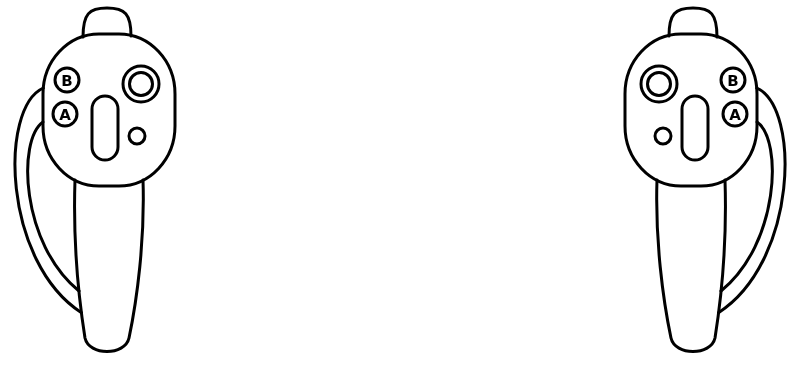
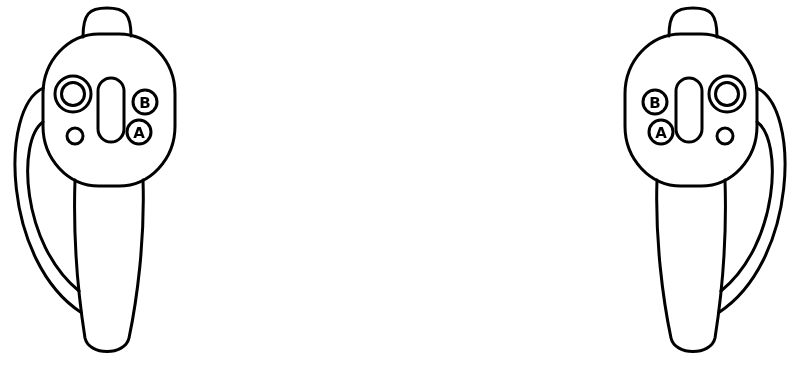
Correct the Index diagram and close remaining Index gaps
A scan of every place that reads or describes a controller found:

- The Index schematic had the thumbstick and A/B on the wrong sides. It
  is redrawn with thumbsticks outboard and A/B inboard, B above A, as on
  the hardware, and the callouts move to match. Sides were checked
  against the Valve Index model in the W3C WebXR Input Profiles
  repository; nothing from that model is included.
- A trackpad press now counts as a button for switching the menu pointer
  to that hand, like every other sampled button.
- A trackpad press closes the glove's thumb like a face button instead of
  showing only a resting touch.
- Free-hand pose has a grip-to-aim pitch for Index when a runtime reports
  no aim pose, from the open-source PimaxXR offsets for that controller.

The option wheel's placement over the thumbstick was compared with the
same model and is within about a centimetre, so it is unchanged.

Claude-Session: https://claude.ai/code/session_01XDPF5pskji58RW6t2NzKGt

Changed region(s): [[0.7812, 0.1779, 0.9375, 0.4447], [0.0625, 0.1779, 0.2188, 0.4447]]

diff --git a/tests/HandPose/Program.cs b/tests/HandPose/Program.cs
@@ -150,6 +150,22 @@ foreach (var left in new[] { false, true })
         }
         Settle();
         CheckFree();
+        // A firm Index trackpad press closes the thumb like a face button;
+        // a thumb merely resting on the pad only shows contact.
+        sample.ThumbrestTouched = true;
+        Settle();
+        var restingThumb = glove.Renderer.bones[GloveBones.ThumbDistal].localRotation;
+        sample.Trackpad = true;
+        Settle();
+        var pressingThumb = glove.Renderer.bones[GloveBones.ThumbDistal].localRotation;
+        Check(Quaternion.Angle(restingThumb, pressingThumb) > .5f, "Trackpad press looked the same as a resting thumb");
+        sample.Trackpad = sample.ThumbrestTouched = false;
+        sample.Primary = true;
+        Settle();
+        SameRotation(glove.Renderer.bones[GloveBones.ThumbDistal].localRotation, pressingThumb, "Trackpad press and face-button press closed the thumb differently");
+        sample.Primary = false;
+        Settle();
+        CheckFree();
 
         Settle(grip);
         Near(glove.Root.position, grip.position + grip.rotation * Fs20HandPoses.Wrist(false, left), "Throttle anchor changed");
@@ -330,7 +346,7 @@ foreach (var left in new[] { false, true })
     }
 }
 // Aim and grip axes are not interchangeable on angled controller handles.
-foreach (var profile in new[] { ControllerHardwareProfile.SteamFrame, ControllerHardwareProfile.Touch })
+foreach (var profile in new[] { ControllerHardwareProfile.SteamFrame, ControllerHardwareProfile.Touch, ControllerHardwareProfile.Index })
     foreach (var left in new[] { true, false })
         foreach (var aimed in new[] { Quaternion.identity, Quaternion.Euler(-90, 0, 0), Quaternion.Euler(23, 71, -14) })
         {

diff --git a/NOVR/VrUi/Bindings/ControllerDiagramImages.cs b/NOVR/VrUi/Bindings/ControllerDiagramImages.cs
@@ -76,15 +76,16 @@ internal static class ControllerDiagramImages
     }
     private static Vector2 IndexPoint(bool left, ControllerButton? button)
     {
-        // Control centers in the right-hand cell of index-diagram.svg. The left
-        // hand is its mirror image: thumbsticks inboard, A/B outboard.
+        // Control centers in the right-hand cell of index-diagram.svg; the left
+        // hand is its mirror image. As on Touch, thumbsticks sit outboard and
+        // A/B inboard. The trackpad leader lands on the pad's upper end, clear of B.
         var point = button switch
         {
-            ControllerButton.Primary => new Vector2(150, 114),
-            ControllerButton.Secondary => new Vector2(148, 80),
-            ControllerButton.StickClick => new Vector2(74, 84),
-            ControllerButton.Trackpad => new Vector2(110, 128),
-            ControllerButton.Menu => new Vector2(78, 136),
+            ControllerButton.Primary => new Vector2(76, 132),
+            ControllerButton.Secondary => new Vector2(70, 102),
+            ControllerButton.StickClick => new Vector2(142, 94),
+            ControllerButton.Trackpad => new Vector2(104, 88),
+            ControllerButton.Menu => new Vector2(140, 136),
             ControllerButton.Trigger => new Vector2(108, 18),
             _ => new Vector2(106, 262)
         };

diff --git a/NOVR/VrUi/Bindings/ControllerDiagramLayout.cs b/NOVR/VrUi/Bindings/ControllerDiagramLayout.cs
@@ -13,16 +13,16 @@ internal static class ControllerDiagramLayout
         float y;
         if (profile == ControllerBindingProfile.Index)
         {
-            // Index thumbsticks sit inboard, the reverse of Touch.
+            // Same sides as Touch. The trackpad sits between the thumbstick and
+            // A/B, nearer the buttons, so its callout heads their column. Grip
+            // joins that column too, away from the strap drawn on the outside.
             var thumbstickSide = button is ControllerButton.Trigger or ControllerButton.StickClick or ControllerButton.Menu;
-            columnLeft = thumbstickSide ? !left : left;
+            columnLeft = thumbstickSide ? left : !left;
             y = button switch
             {
-                ControllerButton.Trigger => 124,
-                ControllerButton.Secondary => 108,
-                ControllerButton.StickClick => 68,
-                ControllerButton.Primary => 60,
-                ControllerButton.Menu or ControllerButton.Trackpad => 12,
+                ControllerButton.Trigger or ControllerButton.Trackpad => 124,
+                ControllerButton.StickClick or ControllerButton.Secondary => 68,
+                ControllerButton.Menu or ControllerButton.Primary => 12,
                 _ => -44
             };
         }

diff --git a/NOVR/Hands/FreeHandPose.cs b/NOVR/Hands/FreeHandPose.cs
@@ -15,9 +15,11 @@ internal static class FreeHandPose
     private static Quaternion Fallback(ControllerSample sample)
     {
         // Installed SteamVR controller definitions: openxr_grip -> openxr_aim.
+        // Index uses the open-source PimaxXR runtime's offsets for that
+        // controller (grip +20 degrees, aim -40 degrees from the tracked pose).
         // Keep unknown hardware's existing grip convention rather than guessing.
         var pitch = sample.Profile == ControllerHardwareProfile.SteamFrame ? 42.8091f
-            : sample.Profile == ControllerHardwareProfile.Touch ? 60f : 0f;
+            : sample.Profile is ControllerHardwareProfile.Touch or ControllerHardwareProfile.Index ? 60f : 0f;
         return sample.Rotation * Quaternion.Euler(pitch, 0, 0);
     }
 

diff --git a/tests/ControllerPointer/Program.cs b/tests/ControllerPointer/Program.cs
@@ -150,8 +150,9 @@ foreach (var loss in new[] { "hidden", "disabled", "noninteractable", "destroyed
 }
 
 // Every sampled physical button participates, including Frame's extra face
-// buttons; contact-only sensors and thumbstick motion are intentionally absent.
-foreach (var button in new[] { "Primary", "Secondary", "Menu", "Shoulder", "Top", "Outside", "StickClick", "Grip", "Trigger" })
+// buttons and an Index trackpad press; contact-only sensors and thumbstick
+// motion are intentionally absent.
+foreach (var button in new[] { "Primary", "Secondary", "Menu", "Shoulder", "Top", "Outside", "StickClick", "Trackpad", "Grip", "Trigger" })
 {
     var s = new Scene();
     s.EnableLeft();

diff --git a/tests/HandPose/UnityDoubles.cs b/tests/HandPose/UnityDoubles.cs
@@ -308,7 +308,7 @@ namespace NOVR.MotionControls
     using UnityEngine;
     internal struct ControllerSample
     {
-        public bool Valid, HasAimPose, Primary, Secondary, Top, Outside, StickClick, ThumbstickTouched, ButtonTouched, PrimaryTouched, ThumbrestTouched, TriggerTouched, GripTouched;
+        public bool Valid, HasAimPose, Primary, Secondary, Top, Outside, StickClick, Trackpad, ThumbstickTouched, ButtonTouched, PrimaryTouched, ThumbrestTouched, TriggerTouched, GripTouched;
         public float Grip, Trigger; public Vector3 Position; public Quaternion Rotation, AimRotation; public ControllerHardwareProfile Profile;
     }
     internal readonly struct Pose

diff --git a/tests/ControllerPointer/Doubles.cs b/tests/ControllerPointer/Doubles.cs
@@ -369,7 +369,7 @@ namespace NOVR.MotionControls
 {
     public struct ControllerSample
     {
-        public bool Valid, Primary, Secondary, Menu, Shoulder, Top, Outside, StickClick; public float Trigger, Grip; public UnityEngine.Vector2 Axis; public UnityEngine.Vector3 AimPosition; public UnityEngine.Quaternion AimRotation; public int Device;
+        public bool Valid, Primary, Secondary, Menu, Shoulder, Top, Outside, StickClick, Trackpad; public float Trigger, Grip; public UnityEngine.Vector2 Axis; public UnityEngine.Vector3 AimPosition; public UnityEngine.Quaternion AimRotation; public int Device;
     }
     public static class TrackedControllers
     {

diff --git a/NOVR/Hands/RiggedGlove.cs b/NOVR/Hands/RiggedGlove.cs
@@ -323,7 +323,7 @@ internal sealed class RiggedGlove : IDisposable
         }
 
         var amount = 1 - Mathf.Exp(-22 * Time.unscaledDeltaTime);
-        var thumbPressed = sample.Primary || sample.Secondary || sample.Top || sample.Outside || sample.StickClick;
+        var thumbPressed = sample.Primary || sample.Secondary || sample.Top || sample.Outside || sample.StickClick || sample.Trackpad;
         var thumbTouch = sample.ThumbstickTouched || sample.ButtonTouched || sample.ThumbrestTouched;
         // Capacitive presence only changes visual joints. It never becomes a
         // click, acquisition action, trigger value, or a synthetic flight input.

diff --git a/NOVR/VrUi/Input/ControllerUiPointer.cs b/NOVR/VrUi/Input/ControllerUiPointer.cs
@@ -182,7 +182,8 @@ internal sealed class ControllerUiPointer
     }
     private static uint Buttons(ControllerSample hand) =>
         (hand.Primary ? 1u : 0) | (hand.Secondary ? 2u : 0) | (hand.Menu ? 4u : 0) |
-        (hand.Shoulder ? 8u : 0) | (hand.Top ? 16u : 0) | (hand.Outside ? 32u : 0) | (hand.StickClick ? 64u : 0);
+        (hand.Shoulder ? 8u : 0) | (hand.Top ? 16u : 0) | (hand.Outside ? 32u : 0) | (hand.StickClick ? 64u : 0) |
+        (hand.Trackpad ? 128u : 0);
 
     private Ray HandRay(Camera camera, ControllerSample hand, int index)
     {

diff --git a/docs/THIRD_PARTY_NOTICES.md b/docs/THIRD_PARTY_NOTICES.md
@@ -25,8 +25,11 @@ or the former WebXR assets' MIT license.
 
 `NOVR/Assets/Controllers/index-diagram.png` is an original schematic drawn for
 this project from `index-diagram.svg` beside it. It marks approximate control
-positions only and contains no Valve artwork. It is distributed under the
-repository's GPL license.
+positions only and contains no Valve artwork. Which side each control sits on
+was checked against the Valve Index model in the W3C
+[WebXR Input Profiles](https://github.com/immersive-web/webxr-input-profiles)
+repository; no part of that model is included. The schematic is distributed
+under the repository's GPL license.
 
 ## Valve OpenXR controller profile
 

diff --git a/docs/STEAM_FRAME.md b/docs/STEAM_FRAME.md
@@ -3,7 +3,7 @@
 NOVR Interactive runs with the Windows game on Windows or through Proton on
 Linux. Both are compatibility targets. A successful test on one platform does
 not establish that the other works; report the host OS when reporting an issue.
-Steam Frame and Quest-style controllers use the same core virtual HOTAS and
+Steam Frame, Quest-style and Valve Index controllers use the same core virtual HOTAS and
 floating HUD widgets. See [controller bindings](CONTROLLER_BINDINGS.md).
 
 ## Starting a session
